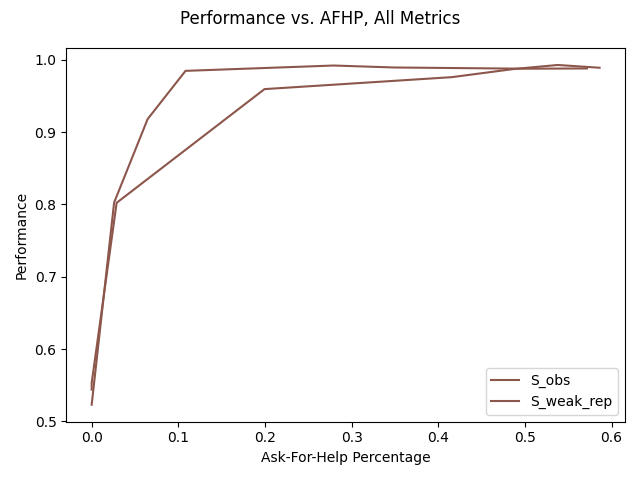
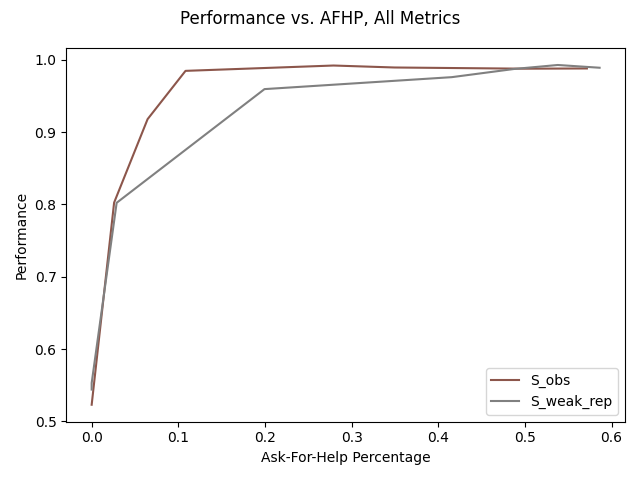
results

diff --git a/full_analysis.py b/full_analysis.py
@@ -82,7 +82,7 @@ colors = {
     "svdd_latent": "lightseagreen",
     "T1": "tab:brown",
     # "T2": "gray",
-    "T3": "tab:brown"
+    "T3": "gray"
 }
 linestyles = {
     "max prob": "dashed",
